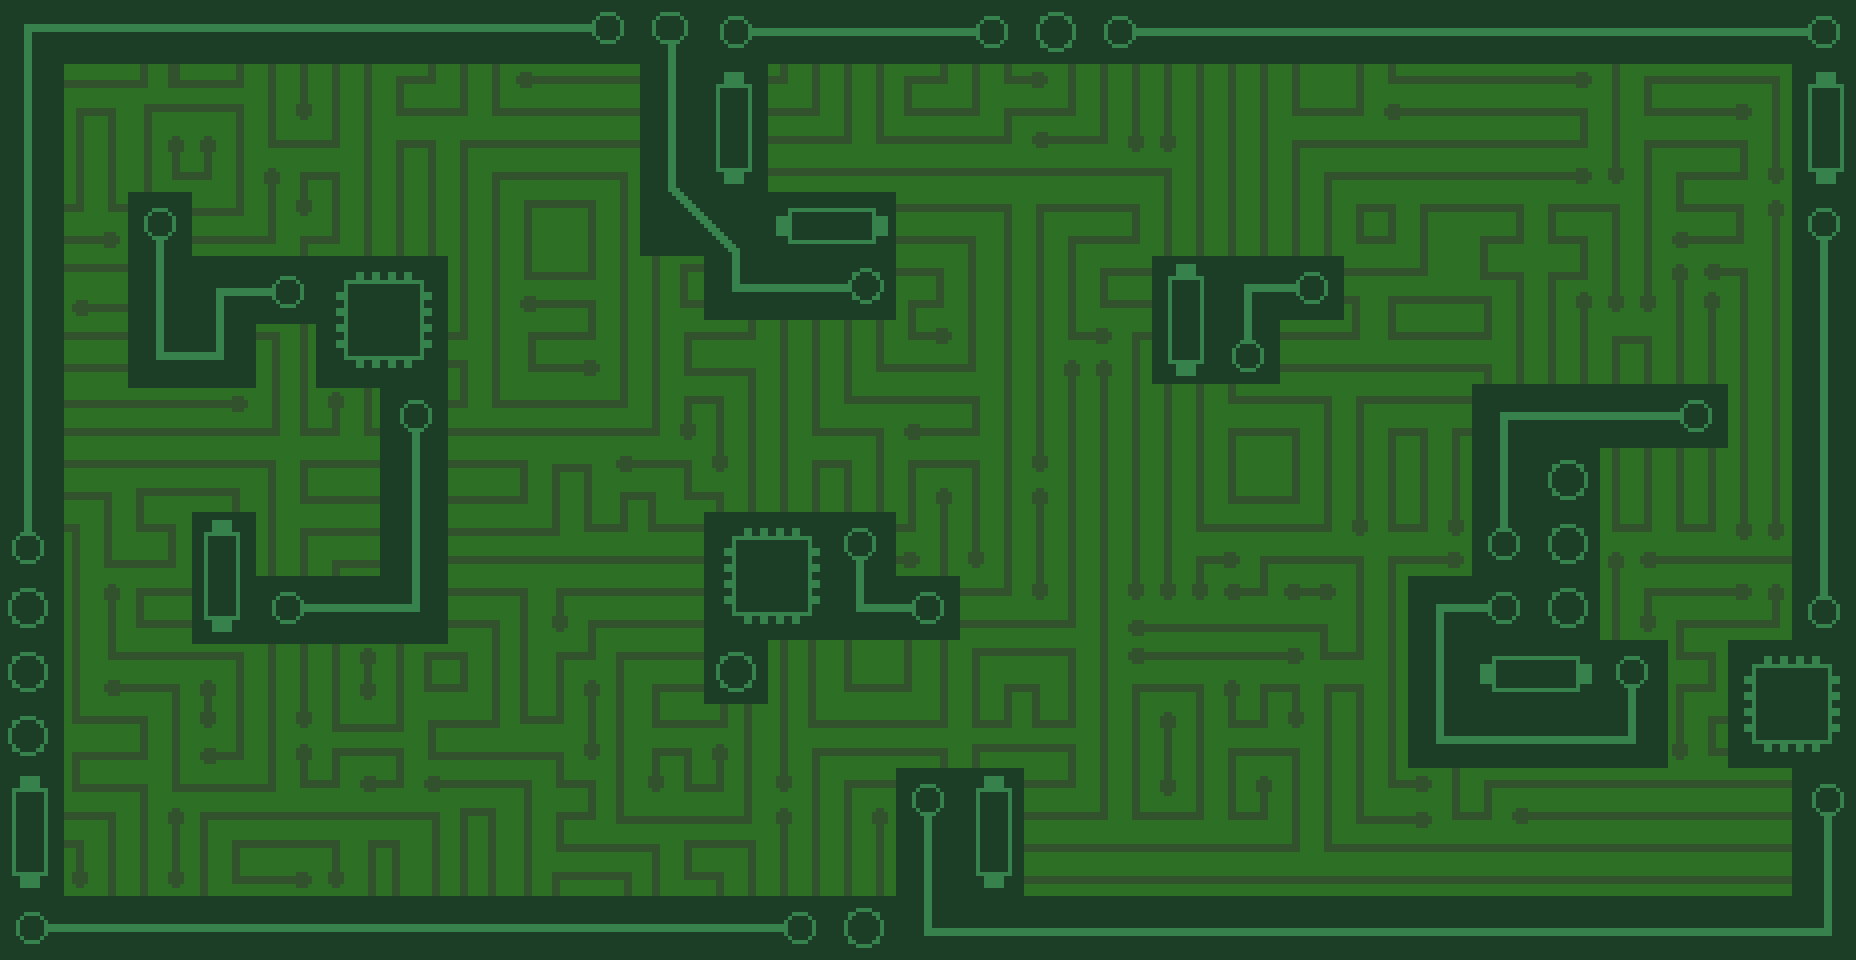
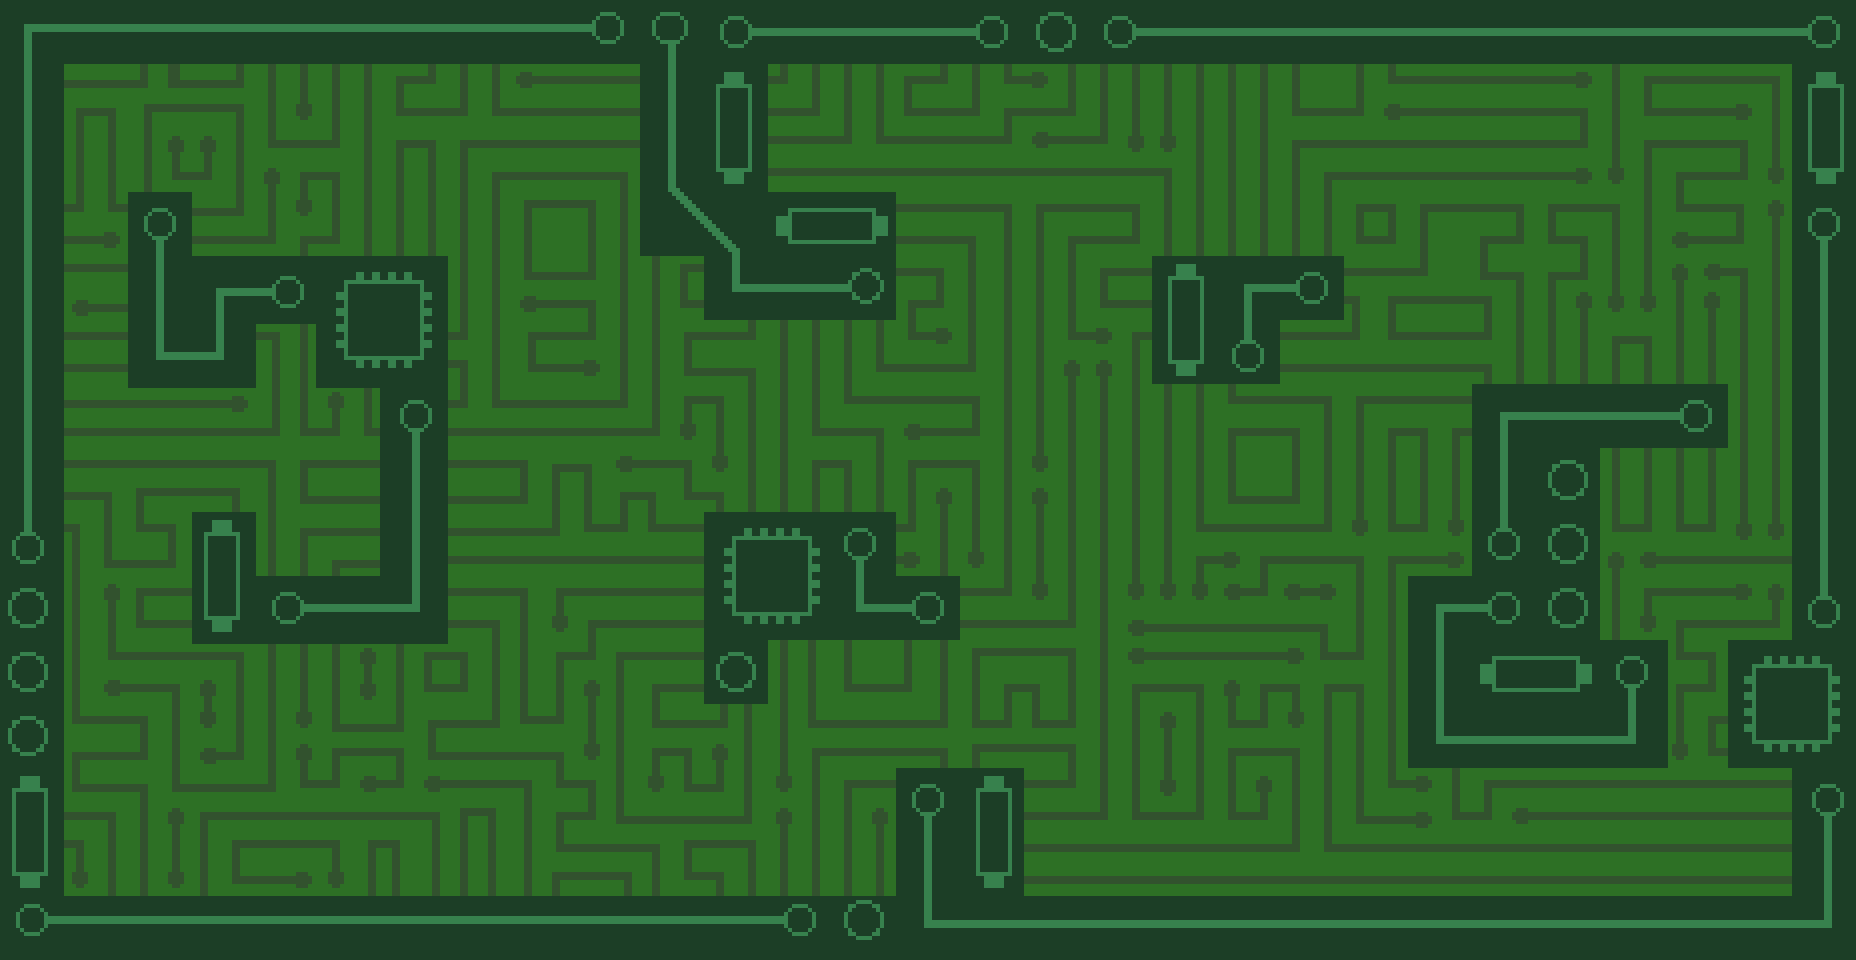
map fix

Changed region(s): [[0.5, 0.9375, 1.0, 1.0], [0.0, 0.9375, 0.4688, 1.0]]

diff --git a/src/ricm3/game/mvc/Map.java b/src/ricm3/game/mvc/Map.java
@@ -144,7 +144,7 @@ public class Map {
 
 	}
 
-	public Map(String s) {
+	public Map(String s, Model m) {
 		int cmp = 0;
 		m_height = 0;
 		m_length = 0;
@@ -195,21 +195,26 @@ public class Map {
 
 			while (cmp < m_height * m_length) {
 				switch ((char) buf[i]) {
+				case 'W':
 				case 'w':
-					//TODO Quand les instances de 
-					matrice[cmp % m_height][cmp / m_height] = new Wall(cmp / m_height, cmp % m_height, this, null,null);
+					// TODO Quand les instances de
+					matrice[cmp / m_length][cmp % m_length] = new Wall(cmp / m_length, cmp % m_length, this, m, 1,
+							null);
+
 					cmp++;
 					break;
+				case 'O':
 				case 'o':
-					matrice[cmp % m_height][cmp / m_height] = new Obstacle(cmp / m_height, cmp % m_height, false, true,
-							false, false, null, this, null,null);
+					matrice[cmp / m_length][cmp % m_length] = new Obstacle(cmp / m_length, cmp % m_length, false, true,
+							false, false, m.m_idb.obstacle, m.m_idb.nbFrameObstacle, this, m, null);
 					cmp++;
 					break;
+				case 'N':
 				case 'n':
-					matrice[cmp % m_height][cmp / m_height] = null;
+					matrice[cmp / m_length][cmp % m_length] = null;
 					cmp++;
 				default:
-					matrice[cmp % m_height][cmp / m_height] = null;
+					matrice[cmp / m_length][cmp % m_length] = null;
 					break;
 				}
 

diff --git a/src/ricm3/game/mvc/Model.java b/src/ricm3/game/mvc/Model.java
@@ -67,7 +67,7 @@ public class Model extends GameModel {
 
 		// sprites vont etres donné a l'instantiation normalement, a voir
 		// ON FAIT LA MAP
-		map = new Map(15, 29);
+		map = new Map("map/1/map1.map",this);
 		finPartie = false;
 		afficherFin = false;
 
@@ -81,7 +81,7 @@ public class Model extends GameModel {
 				TypeKey.NONE, m_idb);
 		map.setEntity(virus);
 		// ajout d'un obstacle
-		Obstacle obs = new Obstacle(0, 0, false, true, false, false, m_idb.obstacle, m_idb.nbFrameObstacle, map, this,
+		/*Obstacle obs = new Obstacle(0, 0, false, true, false, false, m_idb.obstacle, m_idb.nbFrameObstacle, map, this,
 				m_idb);
 		m_obstacles.add(obs);
 		map.setEntity(obs);
@@ -98,7 +98,7 @@ public class Model extends GameModel {
 					m_idb);
 			m_obstacles.add(obs);
 			map.setEntity(obs);
-		}
+		}*/
 		// antivirus
 		aut = Transversal.antivirusAutomaton();
 		antivirus = new Player(8, 1, m_idb.antivirusIdle,m_idb.nbFrameAntivirus, aut, Orientation.LEFT, 2, map, this, 3, 0, TypeKey.NONE,
